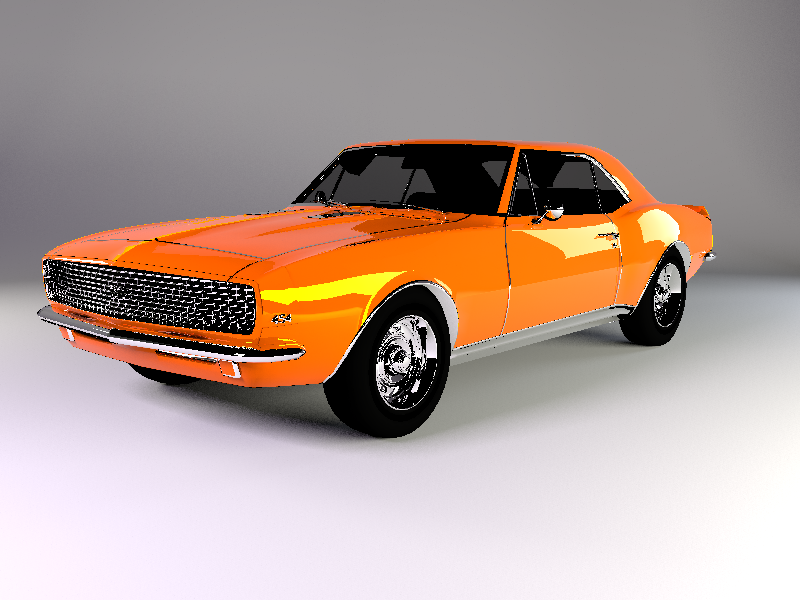
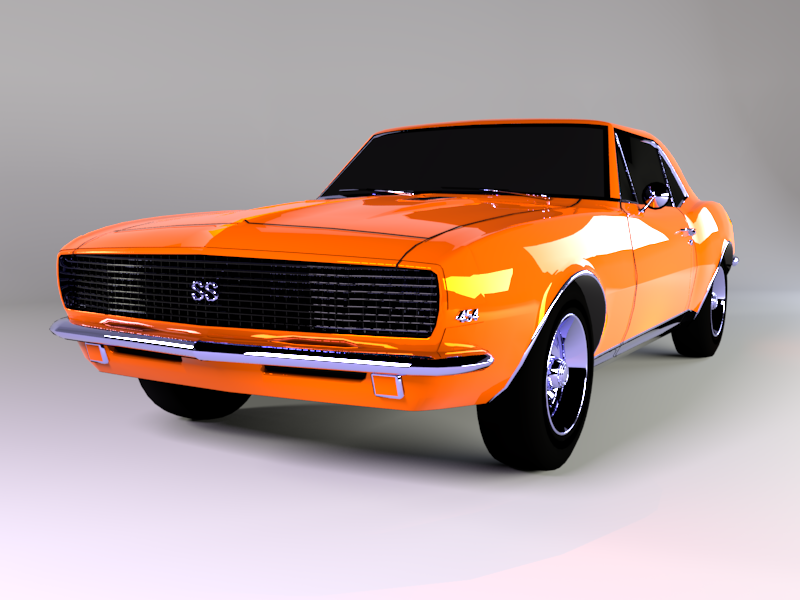
added samples to rig light, added camaro render

diff --git a/templates/default/deploy/camaro.html b/templates/default/deploy/camaro.html
@@ -1,113 +1,114 @@
 <!doctype html>
 <html>
-<head>
-  <title>Threeflow</title>
-  <script src="/socket.io/socket.io.js"></script>
-  <script src="js/dat.gui.js"></script>
+  <head>
+    <title>Threeflow</title>
+    <script src="/socket.io/socket.io.js"></script>
+    <script src="js/dat.gui.js"></script>
 
-  <script src="js/three.js"></script>
-  <script src="js/threeflow.js"></script>
+    <script src="js/three.js"></script>
+    <script src="js/threeflow.js"></script>
 
-  <script src="js/OrbitControls.js"></script>
-  <script src="js/TransformControls.js"></script>
+    <script src="js/OrbitControls.js"></script>
+    <script src="js/TransformControls.js"></script>
 
-  <script src="js/BinaryLoader.js"></script>
+    <script src="js/BinaryLoader.js"></script>
 
-</head>
-<style>
-  body{
-    background-color: #131313;
-    margin:0px;
-    padding:0px;
-    overflow:scroll;
-  }
-</style>
-<body>
-<script>
+  </head>
+  <style>
+    body{
+      background-color: #131313;
+      margin:0px;
+      padding:0px;
+      overflow:scroll;
+    }
+  </style>
 
-  var width, height, threeflow, lighting, gui;
-  var camera, scene, renderer;
+  <body>
+    <script>
 
-  init();
-  update();
+      var width, height, threeflow, lighting, gui;
+      var camera, scene, renderer;
 
-  function init() {
+      init();
+      update();
 
-    // ###
-    // Threeflow Basic setup
+      function init() {
 
-    width = 800; height = 600;
+        // ###
+        // Threeflow Basic setup
 
-    threeflow = new THREEFLOW.SunflowRenderer({overwrite:true});
-    threeflow.setSize( width,height );
+        width = 800; height = 600;
 
-    renderer = new THREE.WebGLRenderer();
-    renderer.setSize( width,height );
+        threeflow = new THREEFLOW.SunflowRenderer( {overwrite:false} );
+        threeflow.setSize( width,height );
 
-    THREEFLOW.__log.enabled = false;
-    document.body.appendChild( renderer.domElement );
-    var img = document.body.appendChild( document.createElement("img") );
-    img.src = "renders/camaro.png";
+        renderer = new THREE.WebGLRenderer();
+        renderer.setSize( width,height );
 
-    scene = new THREE.Scene();
+        document.body.appendChild( renderer.domElement );
+        var img = document.body.appendChild( document.createElement("img") );
+        img.src = "renders/camaro.png";
 
-    camera = new THREE.PerspectiveCamera( 35, width/height, 1, 30000 );
-    camera.position.set(0,500,1000);
-    camera.lookAt( new THREE.Vector3() );
+        scene = new THREE.Scene();
 
-    lighting = new THREEFLOW.LightingRig(camera,renderer.domElement);
-    lighting.loadState('{"lights":[{"enabled":true,"color":14733805,"radiance":44.896527534198526,"geometryType":"Plane","target":{"x":-376.44834756976303,"y":211.71736342113527,"z":366.81323942907534},"light":{"x":-664.4250071441212,"y":478.66377414587737,"z":629.443786737767,"sx":0.6029171577908687,"sy":0.6029171577908687,"sz":0.6029171577908687}},{"enabled":true,"color":16777199,"radiance":25.255605381165918,"geometryType":"Plane","target":{"x":217.81041418261862,"y":102.00045449485992,"z":176.3440939438861},"light":{"x":541.9178492344969,"y":159.4022976018827,"z":508.66097585349803,"sx":1.9566650852960707,"sy":0.28606604643324796,"sz":0.7423625401435991}},{"enabled":true,"color":16777199,"radiance":25.255605381165918,"geometryType":"Plane","target":{"x":-358.9297352669099,"y":210.27904120113578,"z":-351.73002160325984},"light":{"x":-1137.3712542791613,"y":478.65381754615294,"z":-302.07500597075705,"sx":0.5251717408652797,"sy":0.5251717408652797,"sz":0.5251717408652797}},{"enabled":true,"color":13620966,"radiance":8.979305506839705,"geometryType":"Plane","target":{"x":464.54509657834546,"y":176.79129808686673,"z":-120.9868416144102},"light":{"x":984.3698177527843,"y":288.0694181623479,"z":-200.0281888937119,"sx":1.4667118305656217,"sy":0.6395090016393891,"sz":0.6395090016393891}}],"camera":{"x":-16.88461836778314,"y":186.06100677372322,"z":866.163040414001,"rx":0.021938034766455193,"rz":0.003270417346090236,"ord":"XYZ"}}')
-    scene.add( lighting );
+        camera = new THREE.PerspectiveCamera( 35, width/height, 1, 30000 );
+        camera.position.set(0,500,1000);
+        camera.lookAt( new THREE.Vector3() );
 
-    gui = new THREEFLOW.Gui(threeflow,lighting);
-    gui.onRender.add( function(){
-      threeflow.render( scene, camera, "camaro" );
-    });
+        lighting = new THREEFLOW.LightingRig(camera,renderer.domElement);
+        lighting.loadState('{"lights":[{"enabled":true,"color":14733805,"radiance":44.896527534198526,"geometryType":"Plane","target":{"x":-376.44834756976303,"y":211.71736342113527,"z":366.81323942907534},"light":{"x":-664.4250071441212,"y":478.66377414587737,"z":629.443786737767,"sx":0.6029171577908687,"sy":0.6029171577908687,"sz":0.6029171577908687}},{"enabled":true,"color":16777199,"radiance":25.255605381165918,"geometryType":"Plane","target":{"x":217.81041418261862,"y":102.00045449485992,"z":176.3440939438861},"light":{"x":541.9178492344969,"y":159.4022976018827,"z":508.66097585349803,"sx":1.9566650852960707,"sy":0.28606604643324796,"sz":0.7423625401435991}},{"enabled":true,"color":16777199,"radiance":25.255605381165918,"geometryType":"Plane","target":{"x":-358.9297352669099,"y":210.27904120113578,"z":-351.73002160325984},"light":{"x":-1137.3712542791613,"y":478.65381754615294,"z":-302.07500597075705,"sx":0.5251717408652797,"sy":0.5251717408652797,"sz":0.5251717408652797}},{"enabled":true,"color":13620966,"radiance":8.979305506839705,"geometryType":"Plane","target":{"x":464.54509657834546,"y":176.79129808686673,"z":-120.9868416144102},"light":{"x":984.3698177527843,"y":288.0694181623479,"z":-200.0281888937119,"sx":1.4667118305656217,"sy":0.6395090016393891,"sz":0.6395090016393891}}],"camera":{"x":-261.7822352602755,"y":140.3120944989707,"z":665.0168739874479,"rx":-0.2692358920689084,"rz":-0.029596961977286118,"ord":"XYZ"},"orbit":{"x":-69.80844536780776,"y":63.352776812493396,"z":-26.43283864852452}}');
+        scene.add( lighting );
 
+        gui = new THREEFLOW.Gui(threeflow,lighting);
+        gui.onRender.add( function(){
+          threeflow.render( scene, camera, "camaro" );
+        });
 
-    var mesh,material;
+        var mesh,material;
 
-    var loader = new THREE.BinaryLoader();
+        var loader = new THREE.BinaryLoader();
 
-    loader.load("/models/CamaroNoUv_bin.js",function(geometry){
-      geometry.computeBoundingBox();
+        loader.load("/models/CamaroNoUv_bin.js",function(geometry){
+          geometry.computeBoundingBox();
 
-      var scale = 200 / ( geometry.boundingBox.max.y - geometry.boundingBox.min.y );
+          var scale = 200 / ( geometry.boundingBox.max.y - geometry.boundingBox.min.y );
 
-      var body,chrome,glass,tire,interior,black;
-      body = new THREEFLOW.ShinyMaterial( {color: 0xff6600, reflection: 0.3} );
-      chrome = new THREEFLOW.MirrorMaterial( {color: 0xffffff,reflection: 0xffffff} );
+          var body,chrome,darkchrome,glass,tire,interior,black,lines;
 
-      // Haven't been able to get GlassMaterial rendering in a final render.
-      // Gives warning "BCKT   error : Inf shading sample!" and lots of artifacts appear on render.
-      // IPR preview works though.
-      // So use ShinyMaterial instead.
-      glass = new THREEFLOW.ShinyMaterial( {color: 0xaaaaaa, reflection: 0.6, opacity: 0.25, transparent: true } );
-      //glass = new THREEFLOW.GlassMaterial( {color: 0xaaaaaa, eta:1.0, opacity: 0.25, transparent: true } );
-      tire = new THREEFLOW.DiffuseMaterial( {color: 0x050505} );
-      interior = new THREE.MeshPhongMaterial( { color: 0x050505, shininess: 20} );
-      black = new THREE.MeshLambertMaterial( {color: 0x000000} );
+          body = new THREEFLOW.ShinyMaterial( {color: 0xff6600, reflection: 0.3} );
+          darkchrome = new THREEFLOW.MirrorMaterial( {color: 0x252525} );
+          chrome = new THREEFLOW.MirrorMaterial( {color: 0xbabaff} );
+          lines = new THREEFLOW.DiffuseMaterial( {color: 0x131313} );
 
-      // body,wheels,grill,door lines,windshield,interior,tire,tireling,behind grill
-      material = new THREE.MeshFaceMaterial([body,chrome,chrome,chrome,glass,interior,tire,black,black]);
+          // Haven't been able to get GlassMaterial rendering correctly with a final render with this model.
+          // Gives warning "BCKT   error : Inf shading sample!" and artifacts appear on render.
+          // IPR preview works though.
+          glass = new THREEFLOW.DiffuseMaterial( {color: 0x121212, opacity: 0.25, transparent: true } );
+          //glass = new THREEFLOW.GlassMaterial( {color: 0xaaaaaa, eta:1.0, opacity: 0.25, transparent: true, side:THREE.DoubleSide } );
+          tire = new THREEFLOW.DiffuseMaterial( {color: 0x050505} );
+          interior = new THREE.MeshPhongMaterial( { color: 0x050505, shininess: 20} );
+          black = new THREE.MeshLambertMaterial( {color: 0x000000} );
 
-      mesh = new THREE.Mesh(geometry,material);
+          // body,wheels,grill,door lines,windshield,interior,tire,tireling,behind grill
+          material = new THREE.MeshFaceMaterial([body,chrome,darkchrome,lines,glass,interior,tire,black,black]);
 
-      mesh.scale.set(scale,scale,scale);
-      mesh.position.y = geometry.boundingBox.max.y*scale;
-      mesh.rotation.y = -(Math.PI/4);
+          mesh = new THREE.Mesh(geometry,material);
 
-      scene.add(mesh);
-    });
-  }
+          mesh.scale.set(scale,scale,scale);
+          mesh.position.y = geometry.boundingBox.max.y*scale;
+          mesh.rotation.y = -(Math.PI/4);
 
-  function update() {
-    requestAnimationFrame( update );
+          scene.add(mesh);
+        });
+      }
 
-    lighting.update();
-    renderer.render( scene, camera );
-  }
+      function update() {
+        requestAnimationFrame( update );
 
-</script>
-</body>
+        lighting.update();
+        renderer.render( scene, camera );
+      }
+
+    </script>
+  </body>
 </html>

diff --git a/build/threeflow.js b/build/threeflow.js
@@ -303,7 +303,7 @@
       this.orderTypes = BucketExporter.ORDER_TYPES;
       this.enabled = true;
       this.reverse = false;
-      this.size = 64;
+      this.size = 16;
       this.order = this.orderTypes[0];
     }
 
@@ -1376,10 +1376,6 @@
       this.gui.add(this, "_onRender").name("Render");
       this.gui.add(this, "_onRenderIPR").name("Render IPR");
       this.imageFolder = this.gui.addFolder("Image");
-      this.bucketFolder = this.gui.addFolder("Bucket Size/Order");
-      this.traceDepthsFolder = this.gui.addFolder("Trace Depths");
-      this.causticsFolder = this.gui.addFolder("Caustics");
-      this.giFolder = this.gui.addFolder("Global Illumination");
       if (this.lightingRig) {
         this.lightingRigFolder = this.gui.addFolder("Lighting Rig");
         this.lightingRigFolder.add(this.lightingRig, "saveState").name("Dump JSON").onChange(function() {
@@ -1397,8 +1393,13 @@
         this.backdropFolder.add(this.lightingRig.backdropMaterial, "transparent");
         this.backdropFolder.add(this.lightingRig.backdropMaterial, "opacity", 0, 1);
       }
-      this.overridesFolder = this.gui.addFolder("Overrides");
-      this.otherFolder = this.gui.addFolder("Other");
+      this.giFolder = this.gui.addFolder("Global Illumination");
+      this.traceDepthsFolder = this.gui.addFolder("Trace Depths");
+      this.causticsFolder = this.gui.addFolder("Caustics");
+      this.bucketFolder = this.gui.addFolder("Bucket");
+      this.moreFolder = this.gui.addFolder("Later / Other");
+      this.overridesFolder = this.moreFolder.addFolder("Overrides");
+      this.otherFolder = this.moreFolder.addFolder("Flags");
       this.imageFolder.add(this.renderer, "scale");
       this.imageFolder.add(this.renderer.image, "antialiasMin");
       this.imageFolder.add(this.renderer.image, "antialiasMax");
@@ -1512,8 +1513,9 @@
         folder.open();
         folder.add(rigLight, "radiance", 0, 200);
       } else {
-        folder.add(rigLight, "radiance", 0, 100).listen();
+        folder.add(rigLight, "radiance", 0, 200);
       }
+      folder.add(rigLight, "samples", 16, 512).step(16);
       folder.addColor(rigLight, "color");
       return folder.add(rigLight, "geometryType", THREEFLOW.LightingRigLight.LIGHT_GEOMETRY_TYPES);
     };
@@ -1978,7 +1980,7 @@
       });
       this.backdropMaterial = params.backdropMaterial;
       this.createBackdrop(params.backdropWall, params.backdropFloor, params.backdropCurve, params.backdropCurveSteps, params.backdropMaterial);
-      this.ambient = new THREE.AmbientLight(0x333333);
+      this.ambient = new THREE.HemisphereLight(0xefefff, 0xa1efa1);
       this.add(this.ambient);
       this._keyRadiance = 5.5;
       this.lights = [
@@ -2473,6 +2475,14 @@
           if (this.rig) {
             return this.rig.lightsDirty = true;
           }
+        }
+      },
+      samples: {
+        get: function() {
+          return this.light.samples;
+        },
+        set: function(value) {
+          return this.light.samples = value;
         }
       }
     });

diff --git a/templates/default/deploy/js/threeflow.js b/templates/default/deploy/js/threeflow.js
@@ -303,7 +303,7 @@
       this.orderTypes = BucketExporter.ORDER_TYPES;
       this.enabled = true;
       this.reverse = false;
-      this.size = 64;
+      this.size = 16;
       this.order = this.orderTypes[0];
     }
 
@@ -1376,10 +1376,6 @@
       this.gui.add(this, "_onRender").name("Render");
       this.gui.add(this, "_onRenderIPR").name("Render IPR");
       this.imageFolder = this.gui.addFolder("Image");
-      this.bucketFolder = this.gui.addFolder("Bucket Size/Order");
-      this.traceDepthsFolder = this.gui.addFolder("Trace Depths");
-      this.causticsFolder = this.gui.addFolder("Caustics");
-      this.giFolder = this.gui.addFolder("Global Illumination");
       if (this.lightingRig) {
         this.lightingRigFolder = this.gui.addFolder("Lighting Rig");
         this.lightingRigFolder.add(this.lightingRig, "saveState").name("Dump JSON").onChange(function() {
@@ -1397,8 +1393,13 @@
         this.backdropFolder.add(this.lightingRig.backdropMaterial, "transparent");
         this.backdropFolder.add(this.lightingRig.backdropMaterial, "opacity", 0, 1);
       }
-      this.overridesFolder = this.gui.addFolder("Overrides");
-      this.otherFolder = this.gui.addFolder("Other");
+      this.giFolder = this.gui.addFolder("Global Illumination");
+      this.traceDepthsFolder = this.gui.addFolder("Trace Depths");
+      this.causticsFolder = this.gui.addFolder("Caustics");
+      this.bucketFolder = this.gui.addFolder("Bucket");
+      this.moreFolder = this.gui.addFolder("Later / Other");
+      this.overridesFolder = this.moreFolder.addFolder("Overrides");
+      this.otherFolder = this.moreFolder.addFolder("Flags");
       this.imageFolder.add(this.renderer, "scale");
       this.imageFolder.add(this.renderer.image, "antialiasMin");
       this.imageFolder.add(this.renderer.image, "antialiasMax");
@@ -1512,8 +1513,9 @@
         folder.open();
         folder.add(rigLight, "radiance", 0, 200);
       } else {
-        folder.add(rigLight, "radiance", 0, 100).listen();
+        folder.add(rigLight, "radiance", 0, 200);
       }
+      folder.add(rigLight, "samples", 16, 512).step(16);
       folder.addColor(rigLight, "color");
       return folder.add(rigLight, "geometryType", THREEFLOW.LightingRigLight.LIGHT_GEOMETRY_TYPES);
     };
@@ -1978,7 +1980,7 @@
       });
       this.backdropMaterial = params.backdropMaterial;
       this.createBackdrop(params.backdropWall, params.backdropFloor, params.backdropCurve, params.backdropCurveSteps, params.backdropMaterial);
-      this.ambient = new THREE.AmbientLight(0x333333);
+      this.ambient = new THREE.HemisphereLight(0xefefff, 0xa1efa1);
       this.add(this.ambient);
       this._keyRadiance = 5.5;
       this.lights = [
@@ -2473,6 +2475,14 @@
           if (this.rig) {
             return this.rig.lightsDirty = true;
           }
+        }
+      },
+      samples: {
+        get: function() {
+          return this.light.samples;
+        },
+        set: function(value) {
+          return this.light.samples = value;
         }
       }
     });

diff --git a/lib/server.js b/lib/server.js
@@ -66,7 +66,7 @@ module.exports = {
           version: "-version",
           command: "java",
           jar: path.join(__dirname, "../sunflow/sunflow.jar"),
-          memory: "-Xmx1G",
+          memory: "-Xmx2G",
           args: ["-server"]
         },
         flags: {
